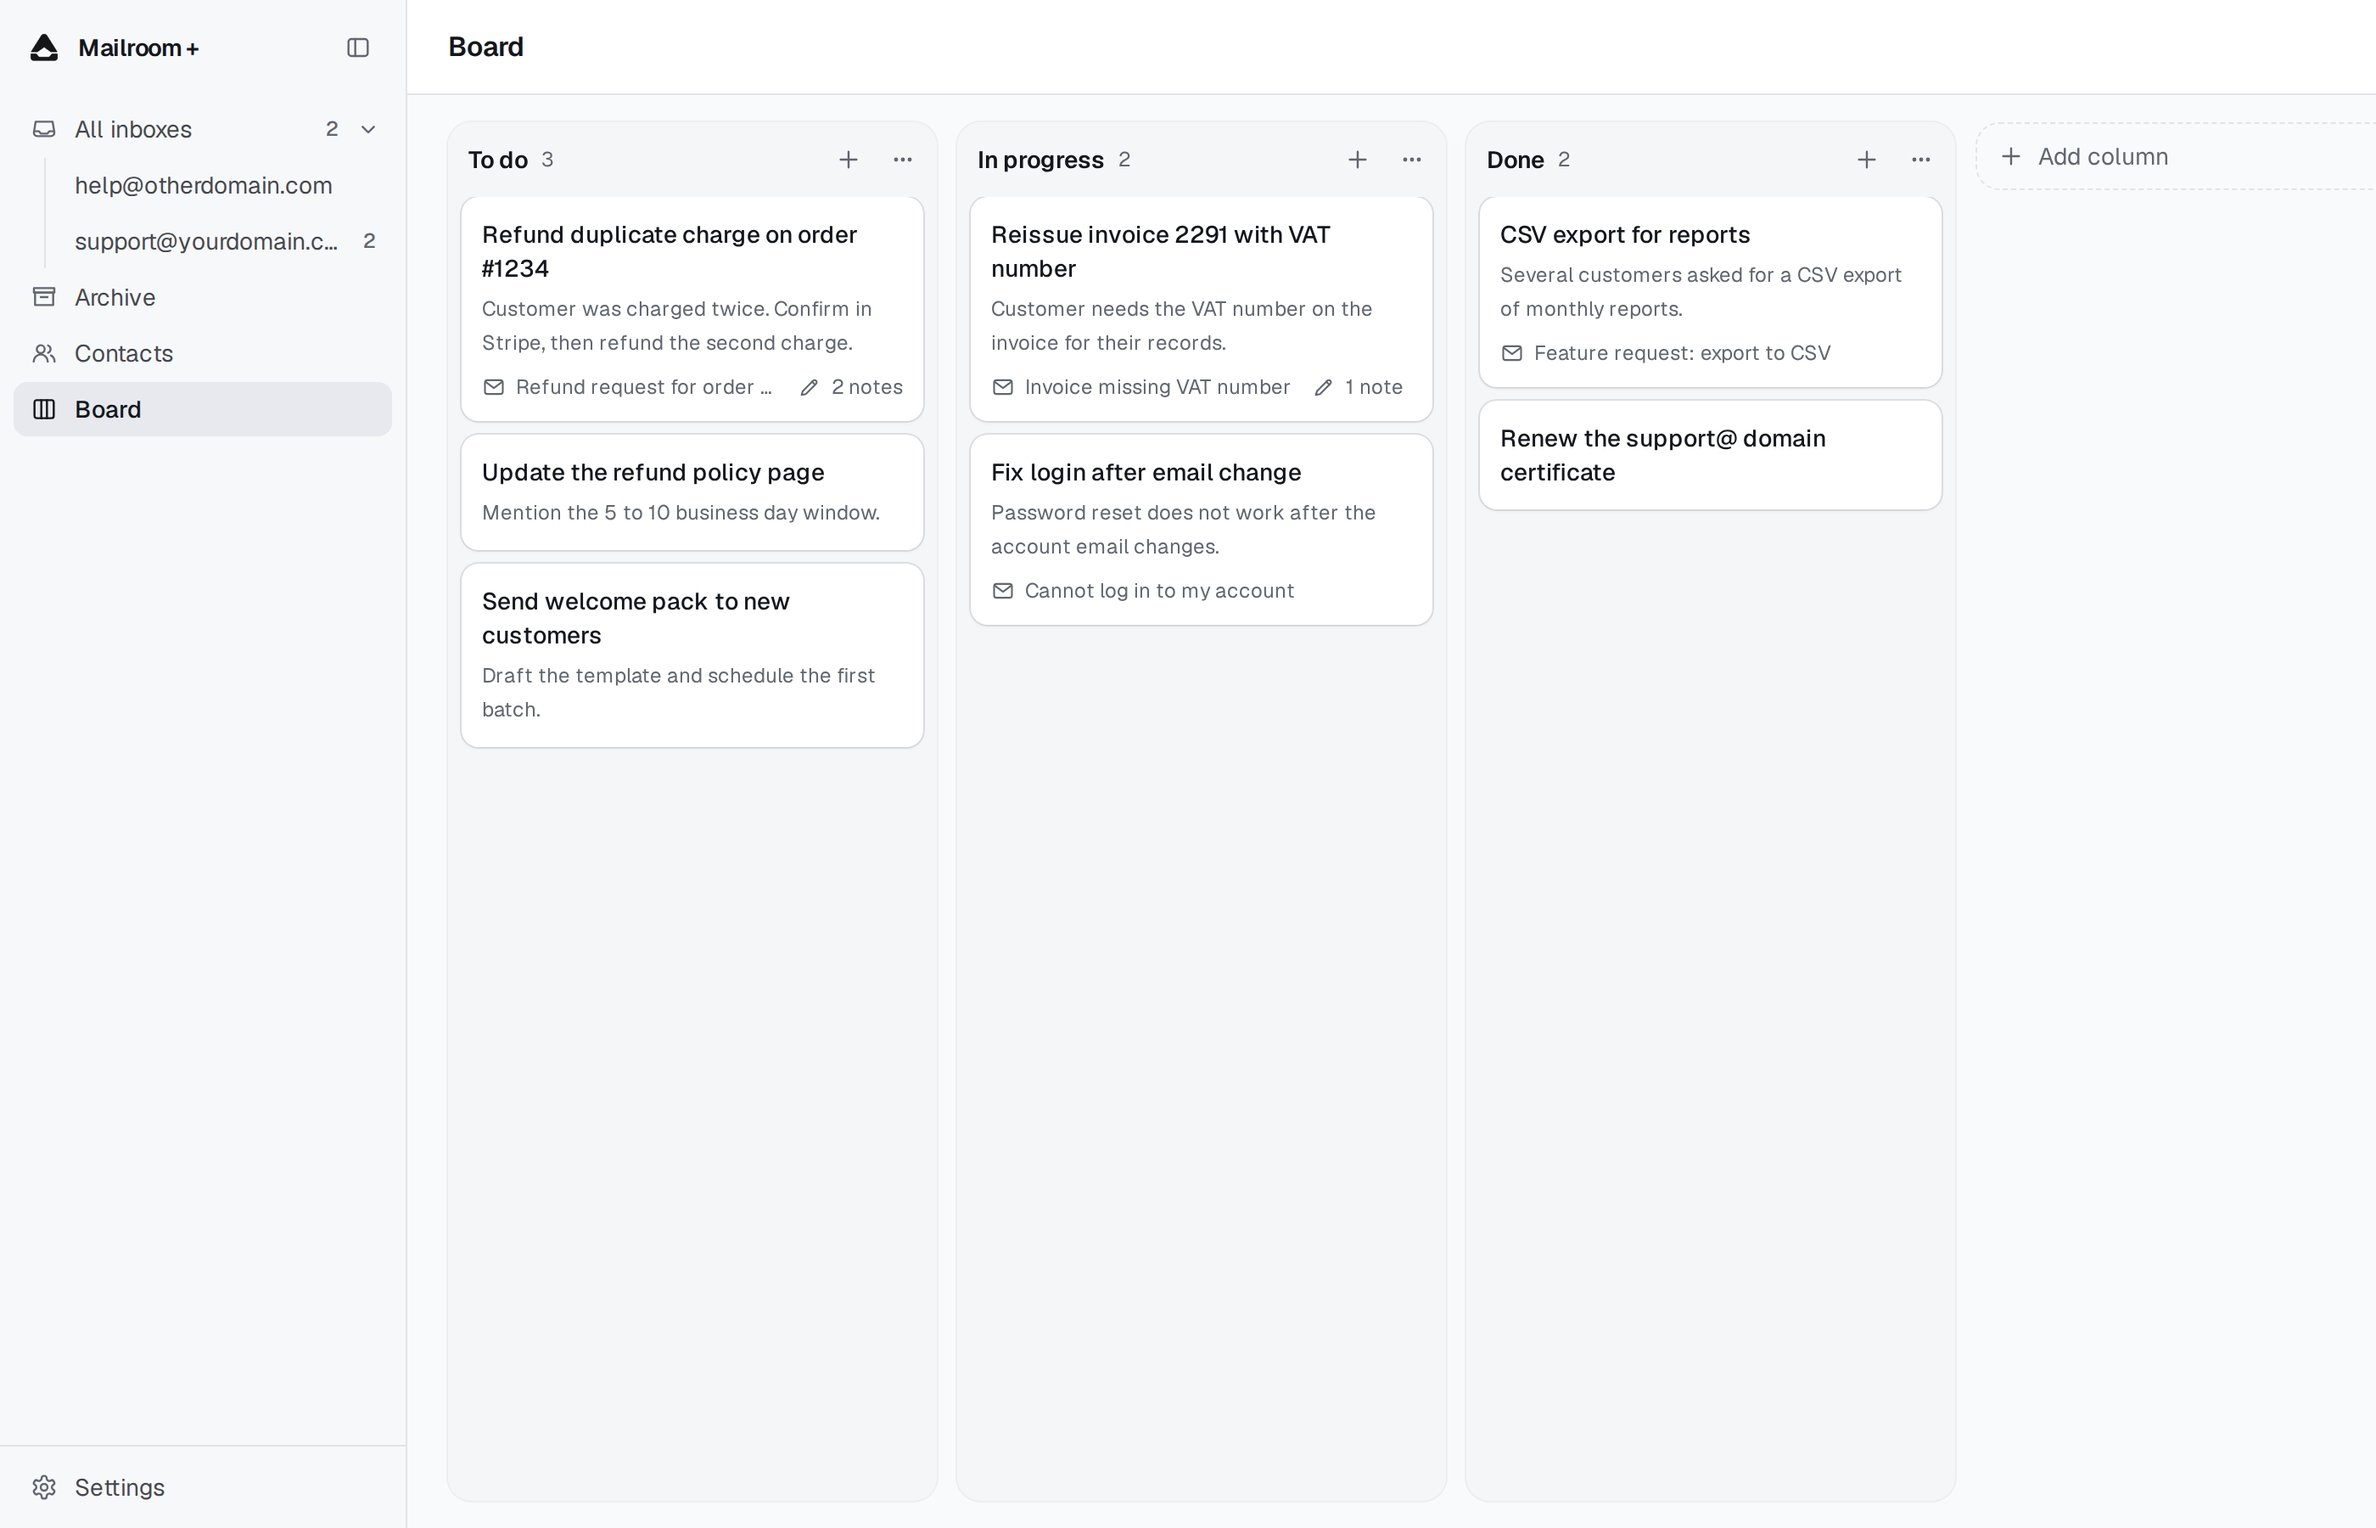
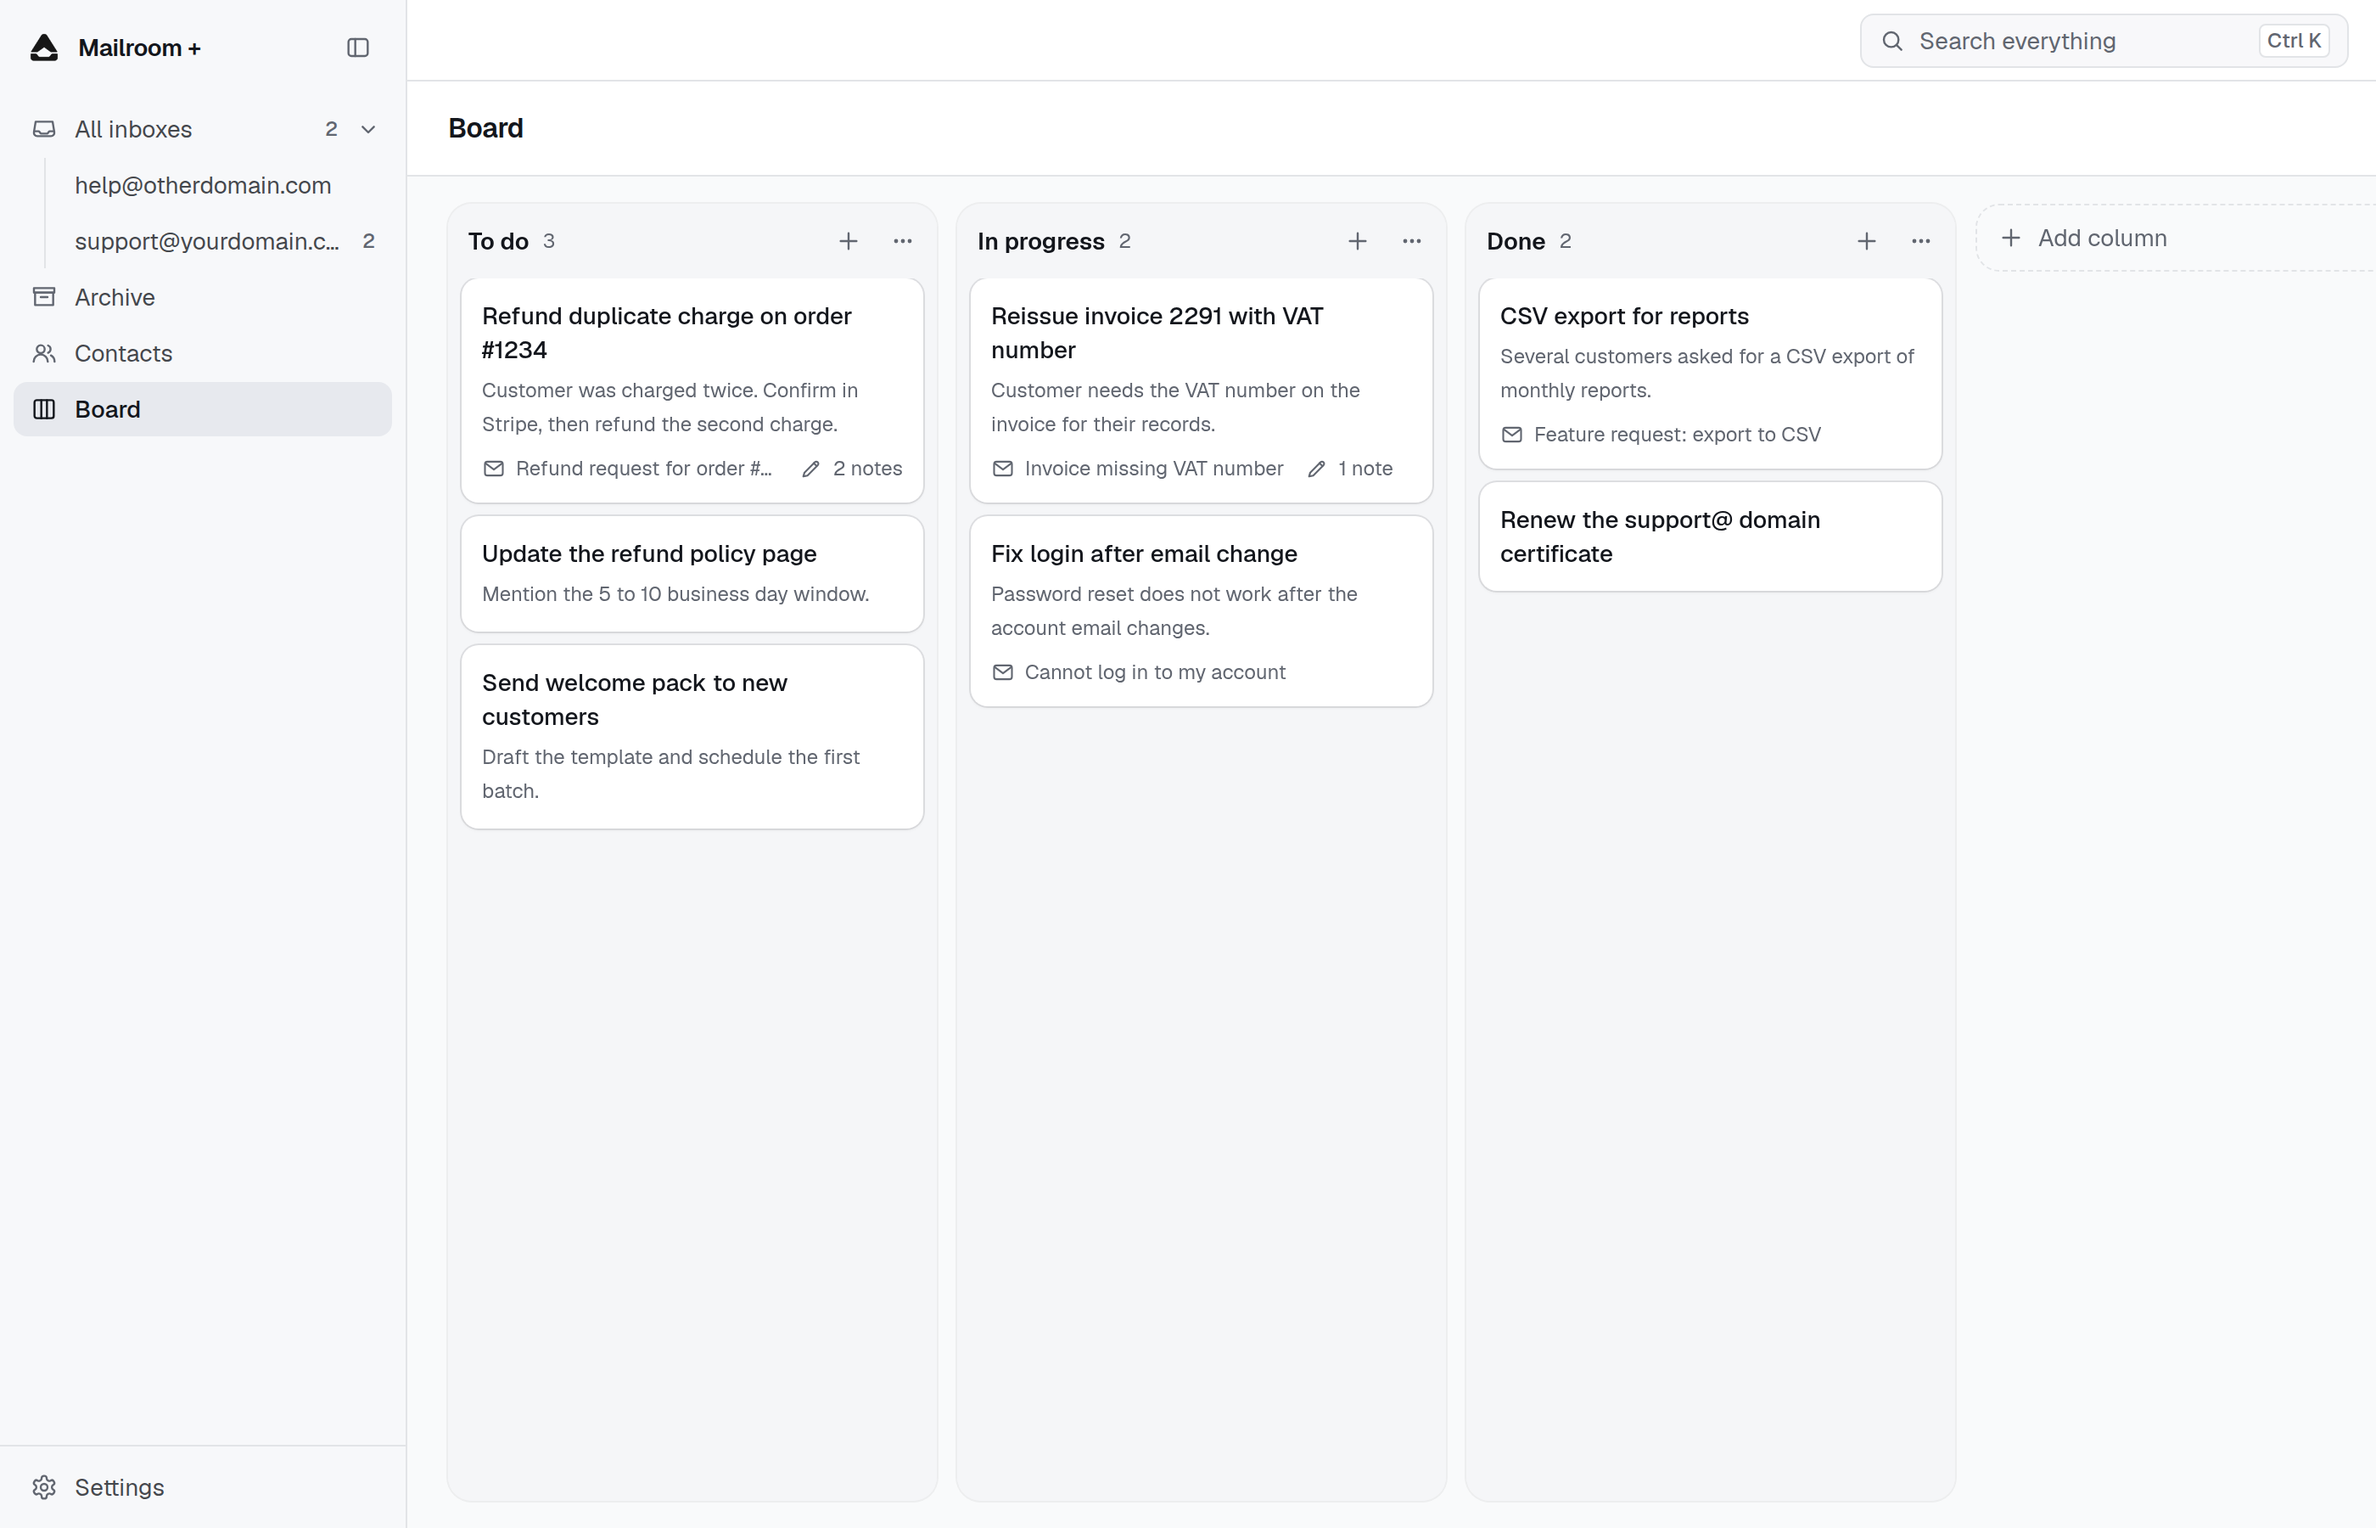
Refresh README screenshots: All inboxes and the Board
Replace the four README screenshots with two current ones, the All
inboxes view and the Board, both showing the universal search.

Claude-Session: https://claude.ai/code/session_01PWgJaUJK1z7mkZ5pHMTCpj

diff --git a/README.md b/README.md
@@ -12,7 +12,7 @@
 
 </div>
 
-<img width="2560" height="1640" alt="Mailroom + conversation view" src="docs/images/screenshot.png" />
+<img width="2800" height="1800" alt="All inboxes in Mailroom +" src="docs/images/screenshot.png" />
 
 Mailroom + is a fork of the original Mailroom with a large set of features added
 for everyday use. It runs in your own Cloudflare account on Workers, Email
@@ -66,11 +66,7 @@ Routing, D1, R2 and Web Push.
   General > Appearance**. System follows your device, and the choice is saved
   on each device.
 
-<img width="2800" height="1800" alt="Catch-all conversations in Mailroom +" src="docs/images/catch-all.png" />
-
 <img width="2800" height="1800" alt="The Board in Mailroom +" src="docs/images/board.png" />
-
-<img width="2800" height="1800" alt="A board item with notes and related conversations" src="docs/images/board-item.png" />
 
 ### Automation
 
